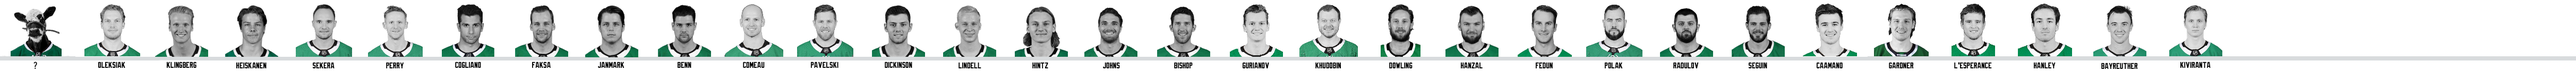
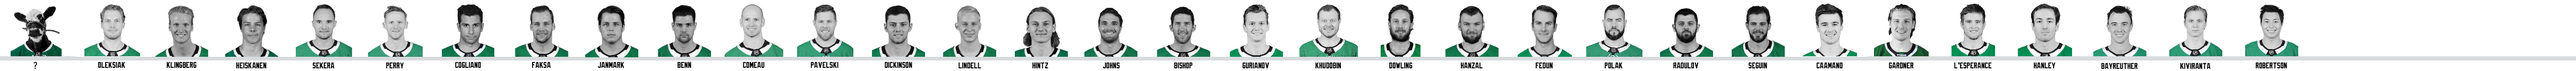
Call Up
Added Robertson to player lineup

Changed region(s): [[0.8716, 0.0593, 0.9027, 0.8], [0.8404, 0.8593, 0.9027, 0.9778]]

diff --git a/dallasstars.css b/dallasstars.css
@@ -2105,6 +2105,7 @@ a[href*="#lhtlight"] { top: 35; right: 25px; transition: all 200ms ease; }
 .md  a[href$="39"] { background-position-x: calc(-135px * 28); }
 .md  a[href$="44"] { background-position-x: calc(-135px * 29); }
 .md  a[href$="25"] { background-position-x: calc(-135px * 30); }
+.md  a[href$="21"] { background-position-x: calc(-135px * 31); }
 
 /* GT Teams
 ----------- */
@@ -2408,6 +2409,7 @@ a[href*="#lhtlight"] { top: 35; right: 25px; transition: all 200ms ease; }
 .side .md  a[href$="39"] { background-position: -2510px 0; }
 .side .md  a[href$="44"] { background-position: -2595px 0; }
 .side .md  a[href$="25"] { background-position: -2680px 0; }
+.side .md  a[href$="21"] { background-position: -2765px 0; }
 
 /* Sidebar Menu Icons */
 
